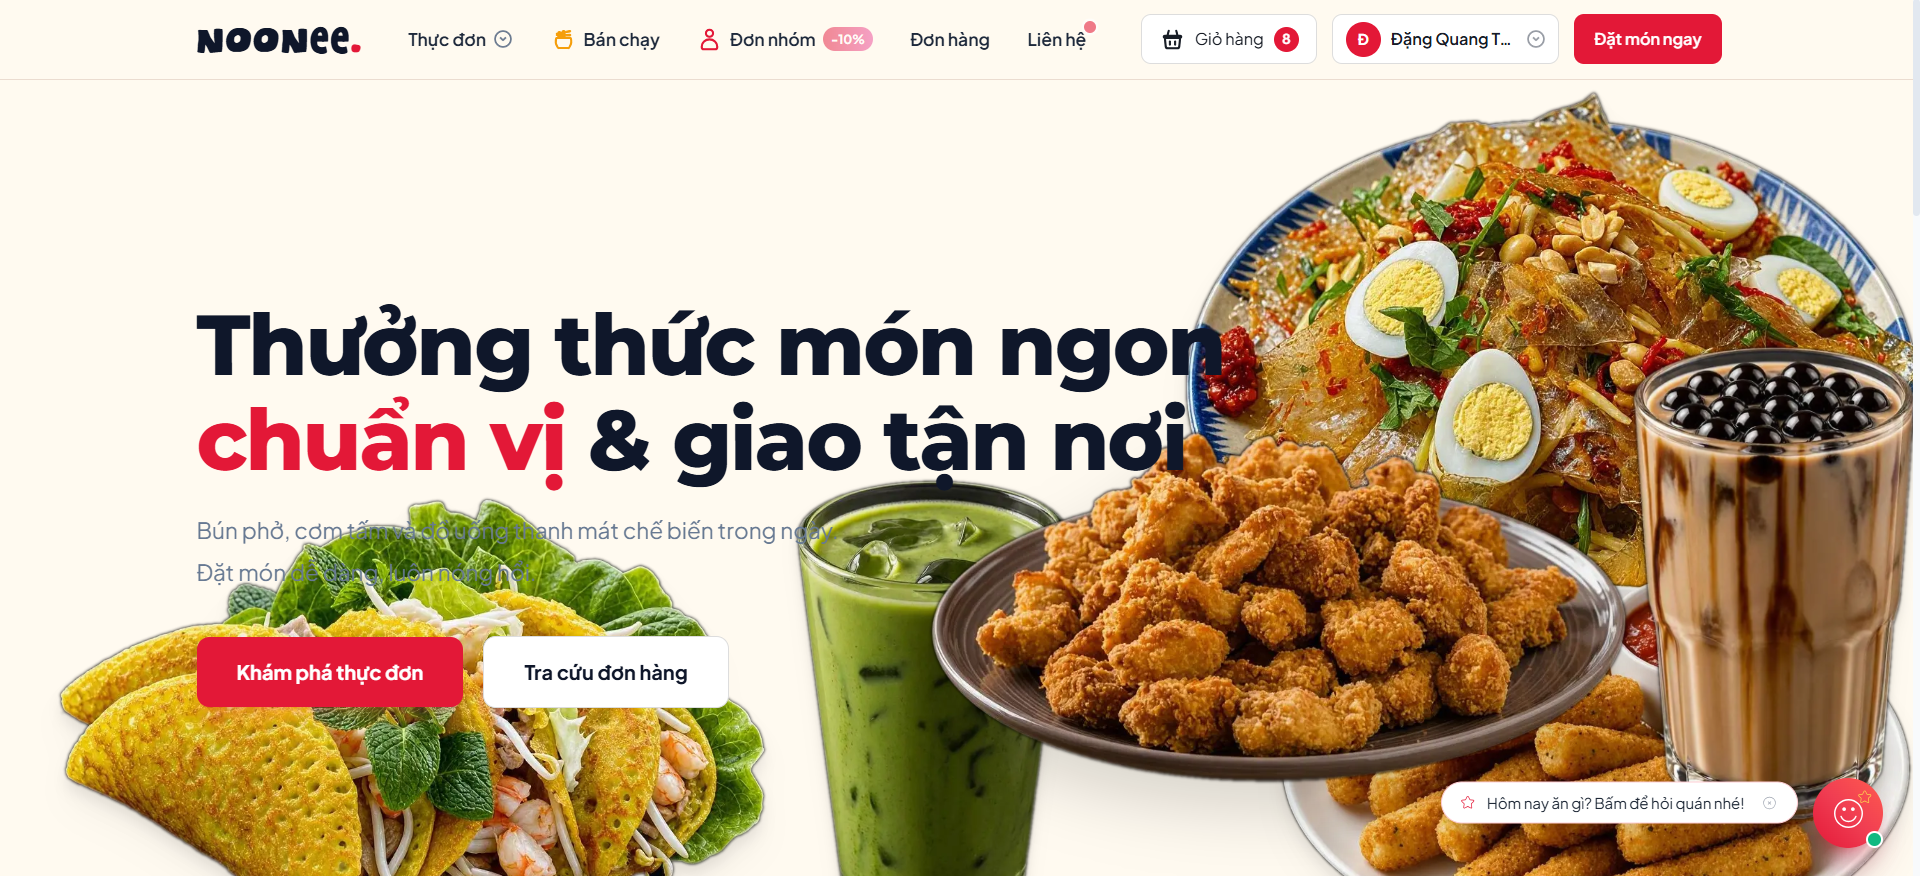
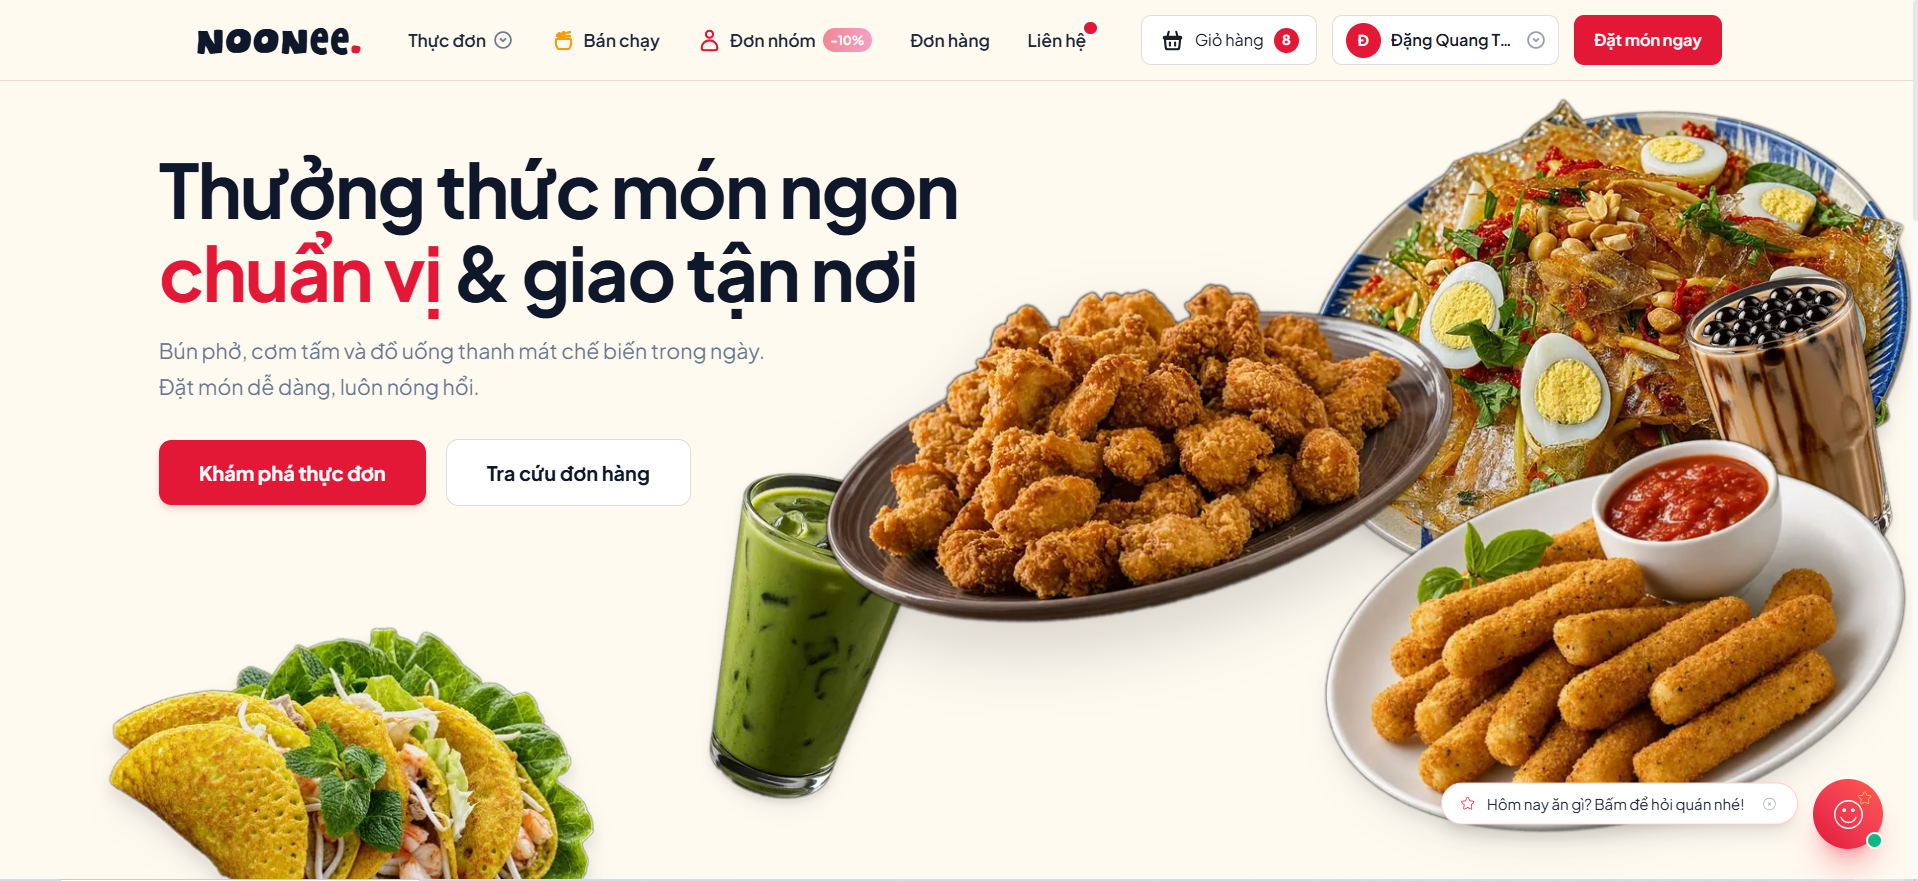
fix: adjust hero food layout to eliminate overlaps with corner bleeds

diff --git a/src/components/HeroFoodCollage.tsx b/src/components/HeroFoodCollage.tsx
@@ -6,9 +6,9 @@ import Image from 'next/image';
 export default function HeroFoodCollage() {
   return (
     <div className="absolute inset-0 pointer-events-none overflow-hidden select-none">
-      {/* 1. Bánh tráng trộn sốt me (Top-Right) */}
+      {/* 1. Bánh tráng trộn sốt me (Top-Right - corner cut-off, above & right of chicken) */}
       <div
-        className="absolute top-[1%] xl:top-[2%] right-[0%] w-[32vw] max-w-[590px] min-w-[260px] z-[2] pointer-events-auto cursor-pointer transition-transform duration-300 hover:scale-105"
+        className="absolute top-[-14%] xl:top-[-13%] 2xl:top-[-12%] right-[-4%] xl:right-[-3%] 2xl:right-[-2.5%] w-[26vw] max-w-[470px] min-w-[240px] z-[2] pointer-events-auto cursor-pointer transition-transform duration-300 hover:scale-105"
         title="Bánh tráng trộn sốt me"
       >
         <Image
@@ -17,14 +17,14 @@ export default function HeroFoodCollage() {
           width={968}
           height={775}
           priority
-          sizes="(max-width: 1800px) 32vw, 590px"
+          sizes="(max-width: 1800px) 26vw, 470px"
           className="w-full h-auto object-contain select-none pointer-events-none drop-shadow-xl"
         />
       </div>
 
-      {/* 2. Trà sữa trân châu đường đen (Far-Right) */}
+      {/* 2. Trà sữa trân châu đường đen (Far-Right - right edge cut-off, below banh trang, clear of chicken) */}
       <div
-        className="absolute top-[22%] xl:top-[24%] right-[1%] w-[11vw] max-w-[200px] min-w-[100px] z-[3] pointer-events-auto cursor-pointer transition-transform duration-300 hover:scale-105"
+        className="absolute top-[35%] xl:top-[36%] right-[-2.5%] xl:right-[-2%] w-[9vw] max-w-[160px] min-w-[85px] z-[3] pointer-events-auto cursor-pointer transition-transform duration-300 hover:scale-105"
         title="Trà sữa trân châu"
       >
         <Image
@@ -33,12 +33,12 @@ export default function HeroFoodCollage() {
           width={527}
           height={741}
           priority
-          sizes="(max-width: 1800px) 11vw, 200px"
+          sizes="(max-width: 1800px) 9vw, 160px"
           className="w-full h-auto object-contain select-none pointer-events-none drop-shadow-lg"
         />
       </div>
 
-      {/* 3. Đĩa gà popcorn giòn cay (Center - shifted left & upward per request) */}
+      {/* 3. Đĩa gà popcorn giòn cay (Center - position unchanged as approved by user) */}
       <div
         className="absolute top-[22%] xl:top-[24%] 2xl:top-[25%] left-[41%] xl:left-[42%] 2xl:left-[43%] w-[33vw] max-w-[590px] min-w-[300px] z-[10] pointer-events-auto cursor-pointer transition-transform duration-300 hover:scale-105"
         title="Gà popcorn giòn cay"
@@ -54,9 +54,9 @@ export default function HeroFoodCollage() {
         />
       </div>
 
-      {/* 4. Cốc matcha (Trà thái xanh) - shifted upward per request */}
+      {/* 4. Cốc matcha (Trà thái xanh) - bottom cut-off, nestled between banh xeo and chicken */}
       <div
-        className="absolute bottom-[6%] xl:bottom-[8%] 2xl:bottom-[10%] left-[34%] xl:left-[36%] 2xl:left-[37%] w-[11.5vw] max-w-[200px] min-w-[100px] z-[5] pointer-events-auto cursor-pointer transition-transform duration-300 hover:scale-105"
+        className="absolute bottom-[-10%] xl:bottom-[-9%] 2xl:bottom-[-8%] left-[32%] xl:left-[33%] 2xl:left-[34%] w-[8.5vw] max-w-[150px] min-w-[80px] z-[5] pointer-events-auto cursor-pointer transition-transform duration-300 hover:scale-105"
         title="Trà thái xanh mát lạnh"
       >
         <Image
@@ -65,14 +65,14 @@ export default function HeroFoodCollage() {
           width={502}
           height={748}
           priority
-          sizes="(max-width: 1800px) 12vw, 200px"
+          sizes="(max-width: 1800px) 9vw, 150px"
           className="w-full h-auto object-contain select-none pointer-events-none drop-shadow-lg"
         />
       </div>
 
-      {/* 5. Đĩa phô mai que kéo sợi - shifted upward per request */}
+      {/* 5. Đĩa phô mai que kéo sợi - bottom-right cut-off, below chicken and tra sua */}
       <div
-        className="absolute bottom-[4%] xl:bottom-[6%] 2xl:bottom-[7%] right-[0%] xl:right-[1%] w-[29vw] max-w-[530px] min-w-[260px] z-[4] pointer-events-auto cursor-pointer transition-transform duration-300 hover:scale-105"
+        className="absolute bottom-[-17%] xl:bottom-[-15%] 2xl:bottom-[-14%] right-[-4%] xl:right-[-3%] 2xl:right-[-2%] w-[26vw] max-w-[470px] min-w-[240px] z-[4] pointer-events-auto cursor-pointer transition-transform duration-300 hover:scale-105"
         title="Phô mai que chiên giòn"
       >
         <Image
@@ -81,14 +81,14 @@ export default function HeroFoodCollage() {
           width={970}
           height={660}
           priority
-          sizes="(max-width: 1800px) 29vw, 530px"
+          sizes="(max-width: 1800px) 26vw, 470px"
           className="w-full h-auto object-contain select-none pointer-events-none drop-shadow-xl"
         />
       </div>
 
-      {/* 6. Bánh xèo giòn rụm (Bottom-Left - scaled smaller per request) */}
+      {/* 6. Bánh xèo giòn rụm (Bottom-Left - bottom-left cut-off, safely below buttons and left of matcha) */}
       <div
-        className="absolute bottom-[-3%] xl:bottom-[-4%] left-[2%] xl:left-[3%] w-[33vw] max-w-[620px] min-w-[320px] z-[2] pointer-events-auto cursor-pointer transition-transform duration-300 hover:scale-105"
+        className="absolute bottom-[-6%] xl:bottom-[-5%] left-[-1%] xl:left-[0%] w-[31vw] max-w-[560px] min-w-[300px] z-[2] pointer-events-auto cursor-pointer transition-transform duration-300 hover:scale-105"
         title="Bánh xèo giòn rụm"
       >
         <Image
@@ -97,7 +97,7 @@ export default function HeroFoodCollage() {
           width={745}
           height={355}
           priority
-          sizes="(max-width: 1800px) 33vw, 620px"
+          sizes="(max-width: 1800px) 31vw, 560px"
           className="w-full h-auto object-contain select-none pointer-events-none drop-shadow-xl"
         />
       </div>
